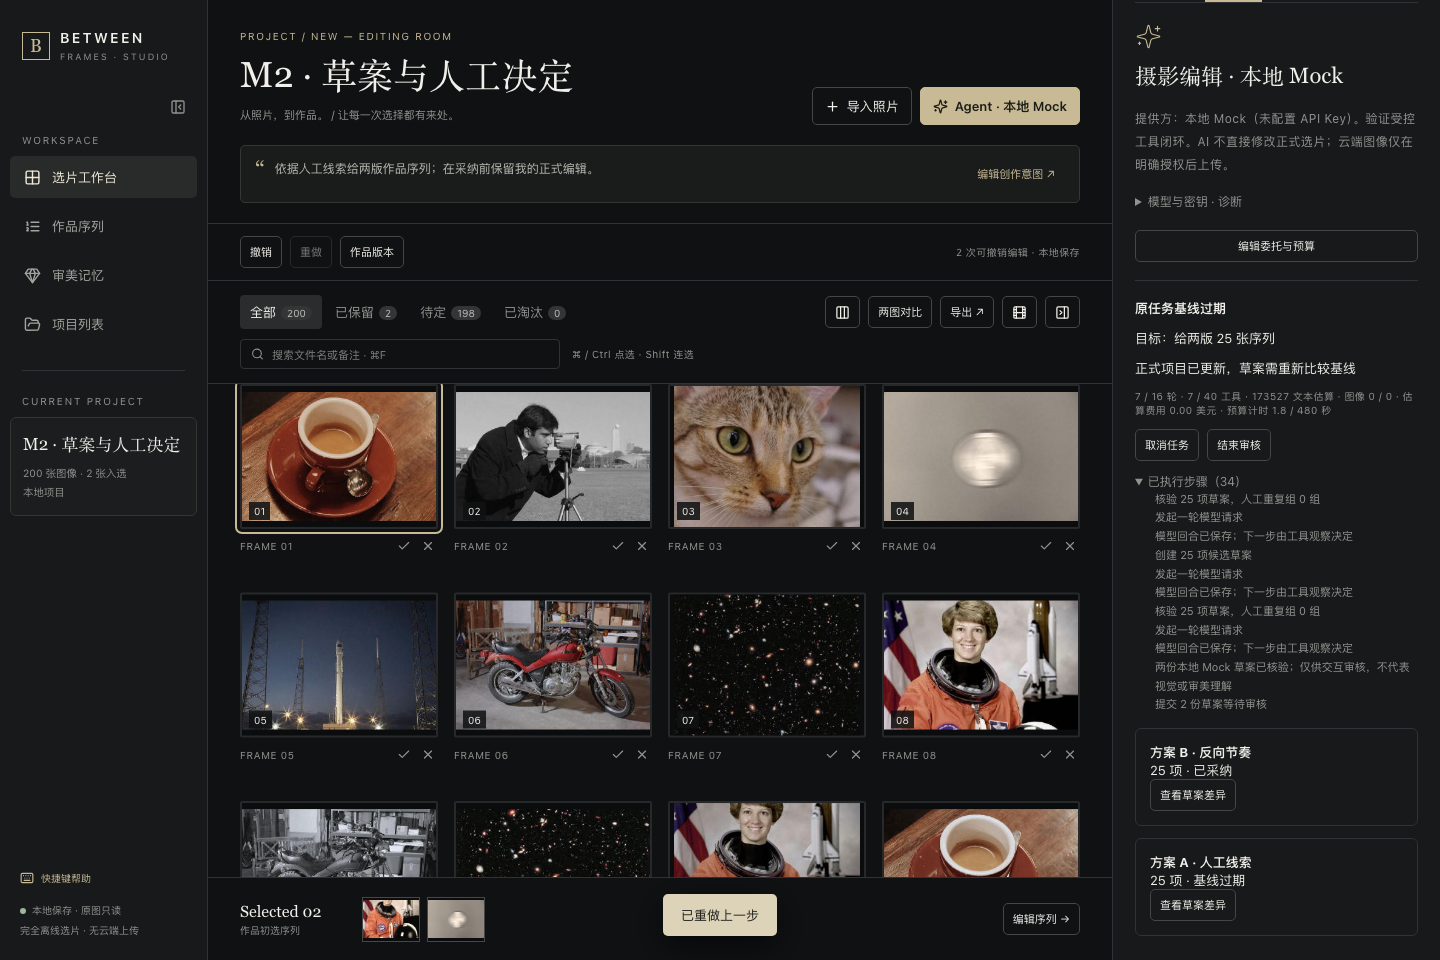
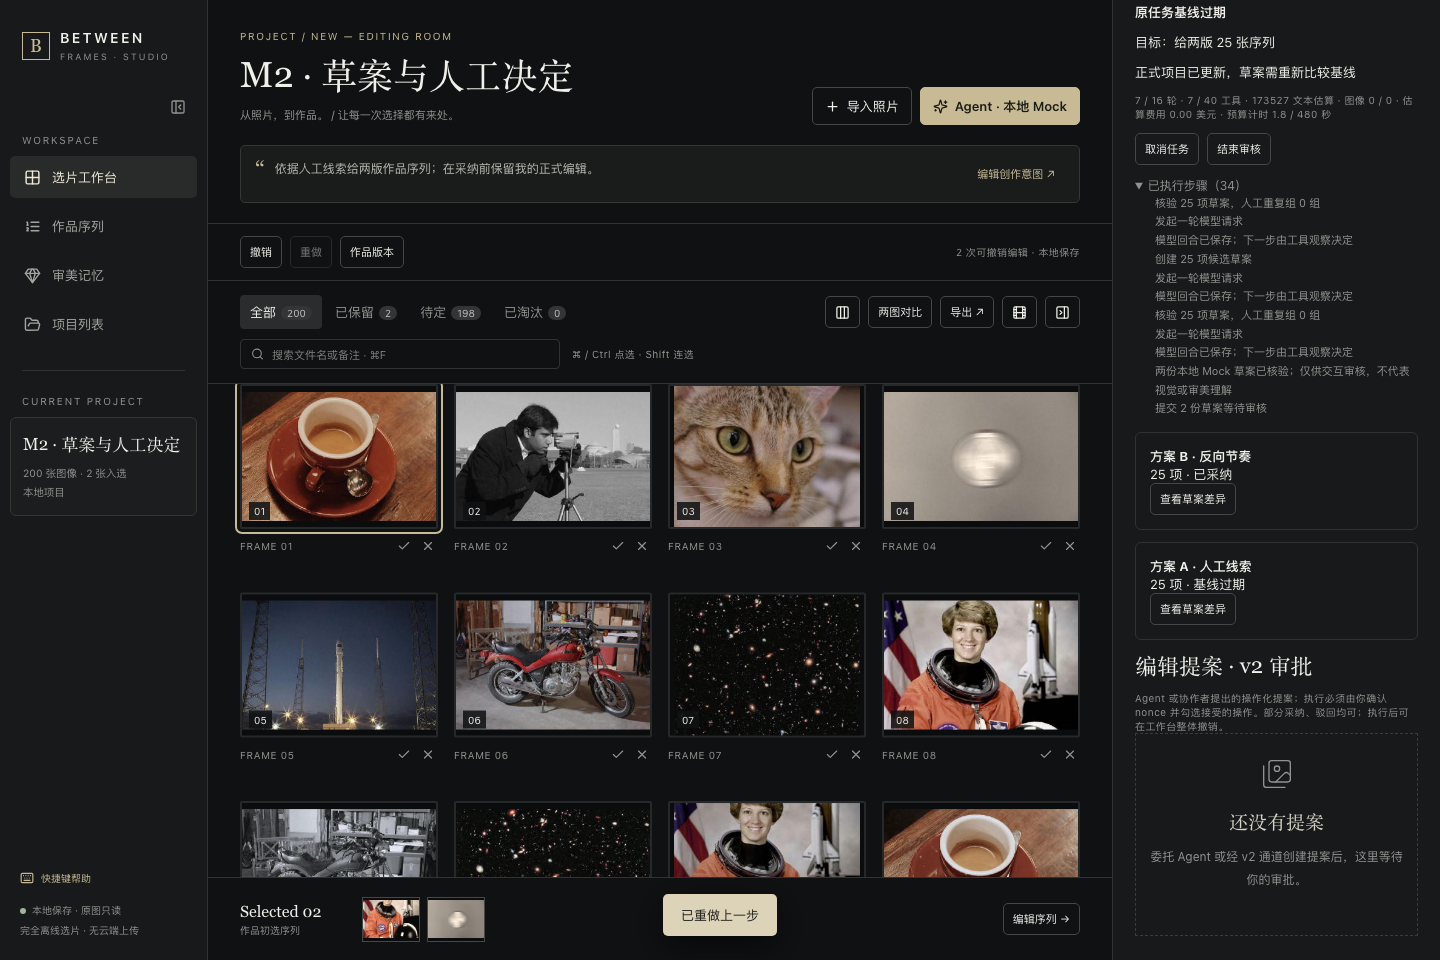
v2.0 M5 提案 GUI：审批面板与桥 IPC
- proposals::list + get_proposals IPC（桌面/harness 双接线）
- execute_v2_command IPC：v2 桥对 GUI 开放；principal 为受信
  入口标识（local-owner），客户端不可自报角色，权限仍由
  local-domain 判定
- ProposalsPanel：提案列表（状态/作者/版本）、展开操作清单
  （加入/移位/移出 + 理由）、nonce 表单默认带入、逐操作勾选
  部分采纳、空选即驳回、applied/discarded 状态说明
- 挂载 AI 面板下方（Agent 委托产出的提案就近审批）
- 组件测试 3 项（列表/勾选执行/空选驳回）
- verify:v2 exit=0 全量（96 Rust、137 前端单测、契约一致）

Changed region(s): [[0.7812, 0.0, 0.9688, 0.8438], [0.7812, 0.8438, 0.9688, 0.9688]]

diff --git a/开发文档/contact-sheet-ai-demo/between-frames/src/features/proposals/ProposalsPanel.tsx b/开发文档/contact-sheet-ai-demo/between-frames/src/features/proposals/ProposalsPanel.tsx
@@ -1,0 +1,59 @@
+import { useState } from 'react';
+import { useQuery, useQueryClient } from '@tanstack/react-query';
+import type { Project } from '../../domain/models';
+import { TauriProposalsRepository } from '../../services/TauriProposalsRepository';
+import { Button } from '../../components/shared/Button';
+import { EmptyState } from '../../components/shared/EmptyState';
+
+const stateLabels: Record<string, string> = { draft: '草稿', submitted: '待审批', applied: '已执行', discarded: '已驳回' };
+const opLabels: Record<string, string> = { add: '加入序列', move: '移位', remove: '移出序列' };
+
+export function ProposalsPanel({ project, enabled }: { project: Project; enabled: boolean }) {
+  const client = useQueryClient();
+  const repository = new TauriProposalsRepository();
+  const query = useQuery({ queryKey: ['proposals', project.id], queryFn: () => repository.query(project.id), enabled, staleTime: 5_000 });
+  const [openId, setOpenId] = useState<string | null>(null);
+  const [accepted, setAccepted] = useState<Record<string, boolean>>({});
+  const [nonce, setNonce] = useState('');
+  const [busy, setBusy] = useState(false);
+  const [note, setNote] = useState('');
+  const act = async (action: () => Promise<unknown>, message: string) => {
+    if (busy) return; setBusy(true); setNote('');
+    try { await action(); setNote(message); void query.refetch(); void client.invalidateQueries({ queryKey: ['projects'] }); }
+    catch (error) { setNote(error instanceof Error ? error.message : String(error)); }
+    finally { setBusy(false); }
+  };
+  const proposals = query.data ?? [];
+  const open = proposals.find(p => p.id === openId) ?? null;
+  return <section className="proposals-panel">
+    <h3>编辑提案 · v2 审批</h3>
+    <p className="micro">Agent 或协作者提出的操作化提案；执行必须由你确认 nonce 并勾选接受的操作。部分采纳、驳回均可；执行后可在工作台整体撤销。</p>
+    {note && <p role="status">{note}</p>}
+    {proposals.length === 0 && <EmptyState title="还没有提案" hint="委托 Agent 或经 v2 通道创建提案后，这里等待你的审批。" />}
+    <ol className="proposal-list">{proposals.map(proposal => <li key={proposal.id}>
+      <button aria-expanded={openId === proposal.id} onClick={() => { setOpenId(openId === proposal.id ? null : proposal.id); setAccepted(Object.fromEntries(proposal.operations.map(op => [op.operationId, true]))); setNonce(proposal.approvalNonce); setNote(''); }}>
+        <strong>{proposal.title}</strong>
+        <span className="micro">{stateLabels[proposal.state]} · {proposal.operations.length} 个操作 · {proposal.author} · v{proposal.revision}</span>
+      </button>
+    </li>)}</ol>
+    {open && open.state === 'draft' && <div className="proposal-actions">
+      <p className="micro">草稿待提交审批。</p>
+      <Button size="small" disabled={busy} onClick={() => { void act(() => repository.submit(project.id, open.id, open.revision, `submit-${Date.now()}`), '已提交审批'); }}>提交审批</Button>
+    </div>}
+    {open && open.state === 'submitted' && <div className="proposal-review">
+      <h4>审批 · {open.title}</h4>
+      <ul className="proposal-ops">{open.operations.map(op => <li key={op.operationId}>
+        <label><input type="checkbox" checked={accepted[op.operationId] ?? false} onChange={event => setAccepted(previous => ({ ...previous, [op.operationId]: event.target.checked }))} />
+          {opLabels[op.op]} · {op.photoId.slice(0, 8)}{op.toIndex !== null ? ` → 第 ${op.toIndex + 1} 位` : ''}{op.reason ? ` · ${op.reason}` : ''}</label>
+      </li>)}</ul>
+      <label>审批 nonce<input className="text-input" value={nonce} onChange={event => setNonce(event.target.value)} /></label>
+      <p className="micro">nonce 与提案不符会被拒绝；不勾任何操作即整体驳回。</p>
+      <div className="proposal-actions">
+        <Button size="small" variant="primary" disabled={busy} onClick={() => { const ids = Object.entries(accepted).filter(([, on]) => on).map(([id]) => id); void act(() => repository.apply(project.id, open.id, open.revision, ids, nonce.trim(), `apply-${Date.now()}`), ids.length ? `已执行 ${ids.length} 个操作` : '已驳回该提案'); }}>
+          {Object.values(accepted).some(Boolean) ? '执行所选操作' : '驳回提案'}
+        </Button>
+      </div>
+    </div>}
+    {open && ['applied', 'discarded'].includes(open.state) && <p className="micro">该提案已{open.state === 'applied' ? '执行（可在工作台撤销）' : '驳回'}。</p>}
+  </section>;
+}

diff --git a/开发文档/contact-sheet-ai-demo/between-frames/src/features/proposals/ProposalsPanel.test.tsx b/开发文档/contact-sheet-ai-demo/between-frames/src/features/proposals/ProposalsPanel.test.tsx
@@ -1,0 +1,55 @@
+import { render, screen, waitFor } from '@testing-library/react';
+import userEvent from '@testing-library/user-event';
+import { QueryClient, QueryClientProvider } from '@tanstack/react-query';
+import { describe, expect, it, vi } from 'vitest';
+import { ProposalsPanel } from './ProposalsPanel';
+import type { Project } from '../../domain/models';
+
+const queryMock = vi.fn().mockResolvedValue([
+  { id: 'p1', title: '克制版 25 张', state: 'submitted', author: 'agent:agent', revision: 2, approvalNonce: 'nonce-1', operations: [
+    { operationId: 'op-1', photoId: 'photo-a1', op: 'add', toIndex: 0, reason: '开篇' },
+    { operationId: 'op-2', photoId: 'photo-b2', op: 'remove', toIndex: null, reason: '' },
+  ] },
+  { id: 'p2', title: '已完成提案', state: 'applied', author: 'user:u', revision: 3, approvalNonce: 'n2', operations: [] },
+]);
+const applyMock = vi.fn().mockResolvedValue({ ok: true });
+vi.mock('../../services/TauriProposalsRepository', () => ({
+  TauriProposalsRepository: class {
+    query = queryMock;
+    apply = applyMock;
+  },
+}));
+
+const project = { id: 'proj', title: 't' } as unknown as Project;
+function mount(enabled = true) {
+  const client = new QueryClient({ defaultOptions: { queries: { retry: false } } });
+  return render(<QueryClientProvider client={client}><ProposalsPanel project={project} enabled={enabled} /></QueryClientProvider>);
+}
+
+describe('v2 提案审批面板', () => {
+  it('列出提案状态与作者', async () => {
+    mount();
+    expect(await screen.findByText('克制版 25 张')).toBeInTheDocument();
+    expect(screen.getByText(/待审批 · 2 个操作 · agent:agent/)).toBeInTheDocument();
+    expect(screen.getByText(/已执行/)).toBeInTheDocument();
+  });
+  it('展开待审批提案：勾选操作、nonce 表单与执行/驳回', async () => {
+    mount();
+    const user = userEvent.setup();
+    await user.click(await screen.findByRole('button', { name: /克制版/ }));
+    expect(screen.getByLabelText(/加入序列/)).toBeInTheDocument();
+    expect(screen.getByLabelText(/移出序列/)).toBeInTheDocument();
+    expect((screen.getByRole('textbox') as HTMLInputElement).value).toBe('nonce-1');
+    await user.click(screen.getByLabelText(/移出序列/));
+    await user.click(screen.getByRole('button', { name: '执行所选操作' }));
+    await waitFor(() => expect(screen.getByRole('status').textContent).toContain('已执行 1 个操作'));
+  });
+  it('全部不勾时按钮为驳回语义', async () => {
+    mount();
+    const user = userEvent.setup();
+    await user.click(await screen.findByRole('button', { name: /克制版/ }));
+    await user.click(screen.getByLabelText(/加入序列/));
+    await user.click(screen.getByLabelText(/移出序列/));
+    expect(screen.getByRole('button', { name: '驳回提案' })).toBeInTheDocument();
+  });
+});

diff --git a/开发文档/contact-sheet-ai-demo/between-frames/src/services/TauriProposalsRepository.ts b/开发文档/contact-sheet-ai-demo/between-frames/src/services/TauriProposalsRepository.ts
@@ -1,0 +1,28 @@
+import { invoke } from '@tauri-apps/api/core';
+import { z } from 'zod';
+
+const operation = z.object({
+  operationId: z.string(), photoId: z.string(), op: z.enum(['add', 'move', 'remove']),
+  toIndex: z.number().int().nullable(), reason: z.string(),
+});
+const proposal = z.object({
+  id: z.string(), taskId: z.string().nullable(), author: z.string(), title: z.string(),
+  state: z.enum(['draft', 'submitted', 'applied', 'discarded']),
+  baseRevision: z.number().int(), revision: z.number().int(), approvalNonce: z.string(),
+  operations: z.array(operation), createdAt: z.string(), updatedAt: z.string(),
+});
+const listing = z.object({ proposals: z.array(proposal) });
+
+export interface ProposalItem { id: string; title: string; state: string; author: string; revision: number; approvalNonce: string; operations: { operationId: string; photoId: string; op: string; toIndex: number | null; reason: string }[] }
+
+export class TauriProposalsRepository {
+  async query(projectId: string): Promise<ProposalItem[]> {
+    return listing.parse(await invoke('get_proposals', { projectId })).proposals;
+  }
+  async submit(projectId: string, proposalId: string, expectedRevision: number, requestId: string) {
+    return invoke('execute_v2_command', { envelope: { version: '2.0', commandId: `cmd-${requestId}`, workspaceId: 'local-workspace', projectId, expectedRevision: 1, idempotencyKey: `idem-${requestId}`, kind: 'proposal.submit', payload: { proposal_id: proposalId, expected_proposal_revision: expectedRevision } }, principal: 'local-owner' });
+  }
+  async apply(projectId: string, proposalId: string, expectedRevision: number, accepted: string[], nonce: string, requestId: string) {
+    return invoke('execute_v2_command', { envelope: { version: '2.0', commandId: `cmd-${requestId}`, workspaceId: 'local-workspace', projectId, expectedRevision: 1, idempotencyKey: `idem-${requestId}`, kind: 'proposal.apply', payload: { proposal_id: proposalId, expected_proposal_revision: expectedRevision, accepted_operation_ids: accepted, approval_nonce: nonce } }, principal: 'local-owner' });
+  }
+}

diff --git a/开发文档/contact-sheet-ai-demo/between-frames/src/app/AppController.tsx b/开发文档/contact-sheet-ai-demo/between-frames/src/app/AppController.tsx
@@ -15,6 +15,7 @@ import { PhotoInspector } from '../components/inspector/PhotoInspector';
 import { CompareModal } from '../components/compare/CompareModal';
 import { AgentStatus } from '../features/ai-editor/AgentStatus';
 import { AIPanel } from '../features/ai-editor/AIPanel';
+import { ProposalsPanel } from '../features/proposals/ProposalsPanel';
 import { PreferencePanel } from '../features/preference-memory/PreferencePanel';
 import { ExportDialog } from '../features/export/ExportDialog';
 import { EmptyState } from '../components/shared/EmptyState';
@@ -117,7 +118,7 @@ export function AppController({ repository }: { repository: ProjectRepository })
       onRelink={local ? () => { act(async () => (await repository.relink(project.id, active.id)) ?? project); } : undefined}
       onEnlarge={photo => setDialog({ kind: 'enlarge', photo })} />
       : <EmptyState title="选择一张照片" hint="点击网格，开始检查画面。" />)
-      : ui.panel === 'ai' ? <AIPanel repository={local ? repository : undefined} project={project} selectedIds={selectedIds} onUpdated={updated => { client.setQueryData<Project[]>(['projects', false], previous => previous?.map(item => item.id === updated.id ? updated : item)); refresh(); }} /> : <PreferencePanel events={project.events} repository={local ? repository : undefined} project={project} />}
+      : ui.panel === 'ai' ? <><AIPanel repository={local ? repository : undefined} project={project} selectedIds={selectedIds} onUpdated={updated => { client.setQueryData<Project[]>(['projects', false], previous => previous?.map(item => item.id === updated.id ? updated : item)); refresh(); }} /><ProposalsPanel project={project} enabled={local} /></> : <PreferencePanel events={project.events} repository={local ? repository : undefined} project={project} />}
   </aside> : undefined;
   return <><AppShell inspector={panel} collapsed={!ui.sidebarOpen} nav={<SideNav project={navProject} page={route.page} view={ui.view} local={local}
     onView={view => { if (!navProject) return; if (route.page === 'projects') navigate(navProject.id); ui.setView(view); }}

diff --git a/开发文档/contact-sheet-ai-demo/between-frames/src-tauri/src/bin/m1-harness.rs b/开发文档/contact-sheet-ai-demo/between-frames/src-tauri/src/bin/m1-harness.rs
@@ -53,6 +53,50 @@ impl Harness {
                 )
                 .await?
             ),
+            "execute_v2_command" => {
+                let envelope = args["envelope"].clone();
+                let principal = string(args, "principal")?.to_owned();
+                let project_id = envelope["project_id"]
+                    .as_str()
+                    .unwrap_or_default()
+                    .to_owned();
+                let trusted = match principal.as_str() {
+                    "local-owner" => between_frames_lib::v2_bridge::local_owner_principal(
+                        "local-workspace",
+                        &project_id,
+                    ),
+                    other => {
+                        return Err(AppError::new(
+                            "PERMISSION_DENIED",
+                            format!("未知主体：{other}"),
+                        ));
+                    }
+                };
+                match betweenframes_local_domain::parse_command(envelope.clone()) {
+                    Ok(validated) => {
+                        let authority =
+                            between_frames_lib::v2_bridge::authority_for(&self.store, &project_id)
+                                .await?;
+                        between_frames_lib::v2_bridge::execute(
+                            &self.store,
+                            between_frames_lib::v2_bridge::V2Execution {
+                                envelope: validated,
+                                principal: trusted,
+                                authority,
+                            },
+                            4_102_444_800_000,
+                        )
+                        .await
+                    }
+                    Err(code) => {
+                        json!({"ok": false, "command_id": "", "revision": null, "error": {"code": code, "message": "命令不符合 v2.0 契约"}})
+                    }
+                }
+            }
+            "get_proposals" => serde_json::to_value(
+                between_frames_lib::agent::proposals::list(&self.store, id, 50).await?,
+            )
+            .unwrap(),
             "get_memory_projection" => serde_json::to_value(
                 between_frames_lib::agent::memory::projection_for_query(
                     &self.store,

diff --git a/开发文档/contact-sheet-ai-demo/between-frames/src-tauri/src/commands.rs b/开发文档/contact-sheet-ai-demo/between-frames/src-tauri/src/commands.rs
@@ -380,6 +380,60 @@ pub async fn get_diagnostics(state: State<'_, Backend>) -> Result<crate::diagnos
     crate::diagnostics::collect(&state.store, root, state.agent.ai_config()).await
 }
 #[tauri::command]
+pub async fn execute_v2_command(
+    state: State<'_, Backend>,
+    envelope: serde_json::Value,
+    principal: String,
+) -> Result<serde_json::Value> {
+    // principal 是受信入口标识（本地单机：local-owner）；角色/权限由 local-domain 判定，
+    // 客户端不能自报 OWNER/EDITOR 等角色。
+    let project_id = envelope["project_id"]
+        .as_str()
+        .unwrap_or_default()
+        .to_owned();
+    let trusted = match principal.as_str() {
+        "local-owner" => crate::v2_bridge::local_owner_principal("local-workspace", &project_id),
+        other => {
+            return Err(crate::domain::AppError::new(
+                "PERMISSION_DENIED",
+                format!("未知的受信主体标识：{other}"),
+            ));
+        }
+    };
+    let validated = match betweenframes_local_domain::parse_command(envelope) {
+        Ok(validated) => validated,
+        Err(code) => {
+            return Ok(
+                serde_json::json!({"ok": false, "command_id": "", "revision": null, "error": {"code": code, "message": "命令不符合 v2.0 契约"}}),
+            );
+        }
+    };
+    let authority = crate::v2_bridge::authority_for(&state.store, &project_id).await?;
+    Ok(crate::v2_bridge::execute(
+        &state.store,
+        crate::v2_bridge::V2Execution {
+            envelope: validated,
+            principal: trusted,
+            authority,
+        },
+        now_ms(),
+    )
+    .await)
+}
+fn now_ms() -> u64 {
+    std::time::SystemTime::now()
+        .duration_since(std::time::UNIX_EPOCH)
+        .map(|duration| duration.as_millis() as u64)
+        .unwrap_or(0)
+}
+#[tauri::command]
+pub async fn get_proposals(
+    state: State<'_, Backend>,
+    project_id: String,
+) -> Result<serde_json::Value> {
+    crate::agent::proposals::list(&state.store, &project_id, 50).await
+}
+#[tauri::command]
 pub async fn get_memory_projection(
     state: State<'_, Backend>,
     project_id: String,

diff --git a/开发文档/contact-sheet-ai-demo/between-frames/src-tauri/src/agent/proposals.rs b/开发文档/contact-sheet-ai-demo/between-frames/src-tauri/src/agent/proposals.rs
@@ -339,3 +339,33 @@ pub async fn view(store: &Store, proposal_id: &str) -> Result<Proposal> {
         updated_at: row.get("updated_at"),
     })
 }
+
+/// 项目提案列表（新在前；含操作与状态，供 GUI 审批视图）。
+pub async fn list(store: &Store, project_id: &str, limit: usize) -> Result<Value> {
+    let rows: Vec<(String, String)> = sqlx::query(
+        "SELECT id,state FROM proposals WHERE project_id=? ORDER BY updated_at DESC, rowid DESC LIMIT ?",
+    )
+    .bind(project_id)
+    .bind(limit as i64)
+    .fetch_all(&store.pool)
+    .await?
+    .iter()
+    .map(|r| (r.get("id"), r.get("state")))
+    .collect();
+    let mut items = vec![];
+    for (id, _) in rows {
+        let view = view(store, &id).await?;
+        items.push(json!({
+            "id": view.id, "taskId": view.task_id, "author": view.author,
+            "title": view.title, "state": view.state,
+            "baseRevision": view.base_revision, "revision": view.revision,
+            "approvalNonce": view.approval_nonce,
+            "operations": view.operations.iter().map(|op| json!({
+                "operationId": op.operation_id, "photoId": op.photo_id,
+                "op": op.op, "toIndex": op.to_index, "reason": op.reason,
+            })).collect::<Vec<_>>(),
+            "createdAt": view.created_at, "updatedAt": view.updated_at,
+        }));
+    }
+    Ok(json!({"proposals": items}))
+}

diff --git a/开发文档/contact-sheet-ai-demo/between-frames/src-tauri/src/lib.rs b/开发文档/contact-sheet-ai-demo/between-frames/src-tauri/src/lib.rs
@@ -68,6 +68,8 @@ pub fn run() {
             commands::get_agent_projection,
             commands::get_ai_config,
             commands::get_memory_projection,
+            commands::get_proposals,
+            commands::execute_v2_command,
             commands::execute_memory_command,
             commands::store_api_key,
             commands::delete_api_key,

diff --git a/开发文档/contact-sheet-ai-demo/docs/TEST-REPORT.md b/开发文档/contact-sheet-ai-demo/docs/TEST-REPORT.md
@@ -78,6 +78,6 @@ CARGO_TARGET_DIR="target-v1" npm run test:integration
 
 ## v2.0 进展（2026-10-15）
 
-M0 基座切片已提交（257ee6a）并独立复验（verify:v2 exit=0，77 项 v2 契约测试）；M1 Rust 侧复验 3 项（500 张混合集/Undo-Redo 位置唯一/超大拒绝）见 [V2-M1-GUI-REVERIFY](V2-M1-GUI-REVERIFY.md)。M2 执行桥已交付（ADR 0017）：set_selection/sequence 命令经鉴权后接入 v1 唯一通道真实执行（幂等/历史/Undo/证据继承），Agent principal 正式写入纯函数层即拒，proposal/comment 诚实 NOT_IMPLEMENTED 留 M5；v2_bridge 4 项测试。M2 工具别名完成：create_edit_proposal/revise_edit_proposal/evaluate_sequence/retrieve_memory 解析为规范工具，get_comments/summarize_review_disagreement 显式 NOT_IMPLEMENTED（M5）；v2 名字完整任务循环测试（list→proposal→finish→review_ready，正式状态零触碰）。**M2 工程侧关闭**。M3 Router 已交付（ADR 0018）：能力/区域/隐私/预算过滤 + 质量成本排序，三类可读错误（MODEL_CAPABILITY_MISSING/PRIVACY_REGION_REJECTED/BUDGET_EXCEEDED）、图像范围永不自动扩大、explain() 可解释投影不含密钥；6 场景路由测试 + engine 接线。M3 真实质量评估/计费/竞品对比需真模型与真人，不冒充完成。M5 评论切片已交付（ADR 0019）：0011 迁移 + 桥的人类通道写入（同锚点聚合/resolve 重开/跨项目锚点拒绝）+ get_comments 工具解锁（Agent 只读、不构成偏好证据）；summarize 留后续；proposal.create/submit/apply 已交付（ADR 0020）：0012 迁移、nonce 防越权、部分采纳/空集驳回、base 漂移拒绝重建、Agent 仅可创建而人工审批执行、逐操作经 v1 通道可整体撤销。v2_proposals 2 项测试（全流程+陈旧基线）。M1 真机性能与人工走查、M2 轨迹映射全量回归、M3+ 未启动。
+M0 基座切片已提交（257ee6a）并独立复验（verify:v2 exit=0，77 项 v2 契约测试）；M1 Rust 侧复验 3 项（500 张混合集/Undo-Redo 位置唯一/超大拒绝）见 [V2-M1-GUI-REVERIFY](V2-M1-GUI-REVERIFY.md)。M2 执行桥已交付（ADR 0017）：set_selection/sequence 命令经鉴权后接入 v1 唯一通道真实执行（幂等/历史/Undo/证据继承），Agent principal 正式写入纯函数层即拒，proposal/comment 诚实 NOT_IMPLEMENTED 留 M5；v2_bridge 4 项测试。M2 工具别名完成：create_edit_proposal/revise_edit_proposal/evaluate_sequence/retrieve_memory 解析为规范工具，get_comments/summarize_review_disagreement 显式 NOT_IMPLEMENTED（M5）；v2 名字完整任务循环测试（list→proposal→finish→review_ready，正式状态零触碰）。**M2 工程侧关闭**。M3 Router 已交付（ADR 0018）：能力/区域/隐私/预算过滤 + 质量成本排序，三类可读错误（MODEL_CAPABILITY_MISSING/PRIVACY_REGION_REJECTED/BUDGET_EXCEEDED）、图像范围永不自动扩大、explain() 可解释投影不含密钥；6 场景路由测试 + engine 接线。M3 真实质量评估/计费/竞品对比需真模型与真人，不冒充完成。M5 评论切片已交付（ADR 0019）：0011 迁移 + 桥的人类通道写入（同锚点聚合/resolve 重开/跨项目锚点拒绝）+ get_comments 工具解锁（Agent 只读、不构成偏好证据）；summarize 留后续；proposal.create/submit/apply 已交付（ADR 0020）：0012 迁移、nonce 防越权、部分采纳/空集驳回、base 漂移拒绝重建、Agent 仅可创建而人工审批执行、逐操作经 v1 通道可整体撤销。v2_proposals 2 项测试（全流程+陈旧基线）。提案 GUI 已交付：get_proposals/execute_v2_command IPC（principal 为受信入口标识，客户端不可自报角色）、AI 面板旁 ProposalsPanel（列表/展开操作/nonce 表单/部分采纳/空选驳回）、组件测试 3 项。M1 真机性能与人工走查、M2 轨迹映射全量回归、M3+ 未启动。
 
 六阶段工程实现至此全部落地，停止等待整体评审；规格符合性终审见 [V1.0-COMPLIANCE](V1.0-COMPLIANCE.md)。另见 [已知问题](KNOWN_ISSUES.md)、[文件清单](V1-M5-FILES.md)、[ADR 0008](ADR/0008-v1-m5-beta-readiness.md)、[隐私说明](PRIVACY.md)。
